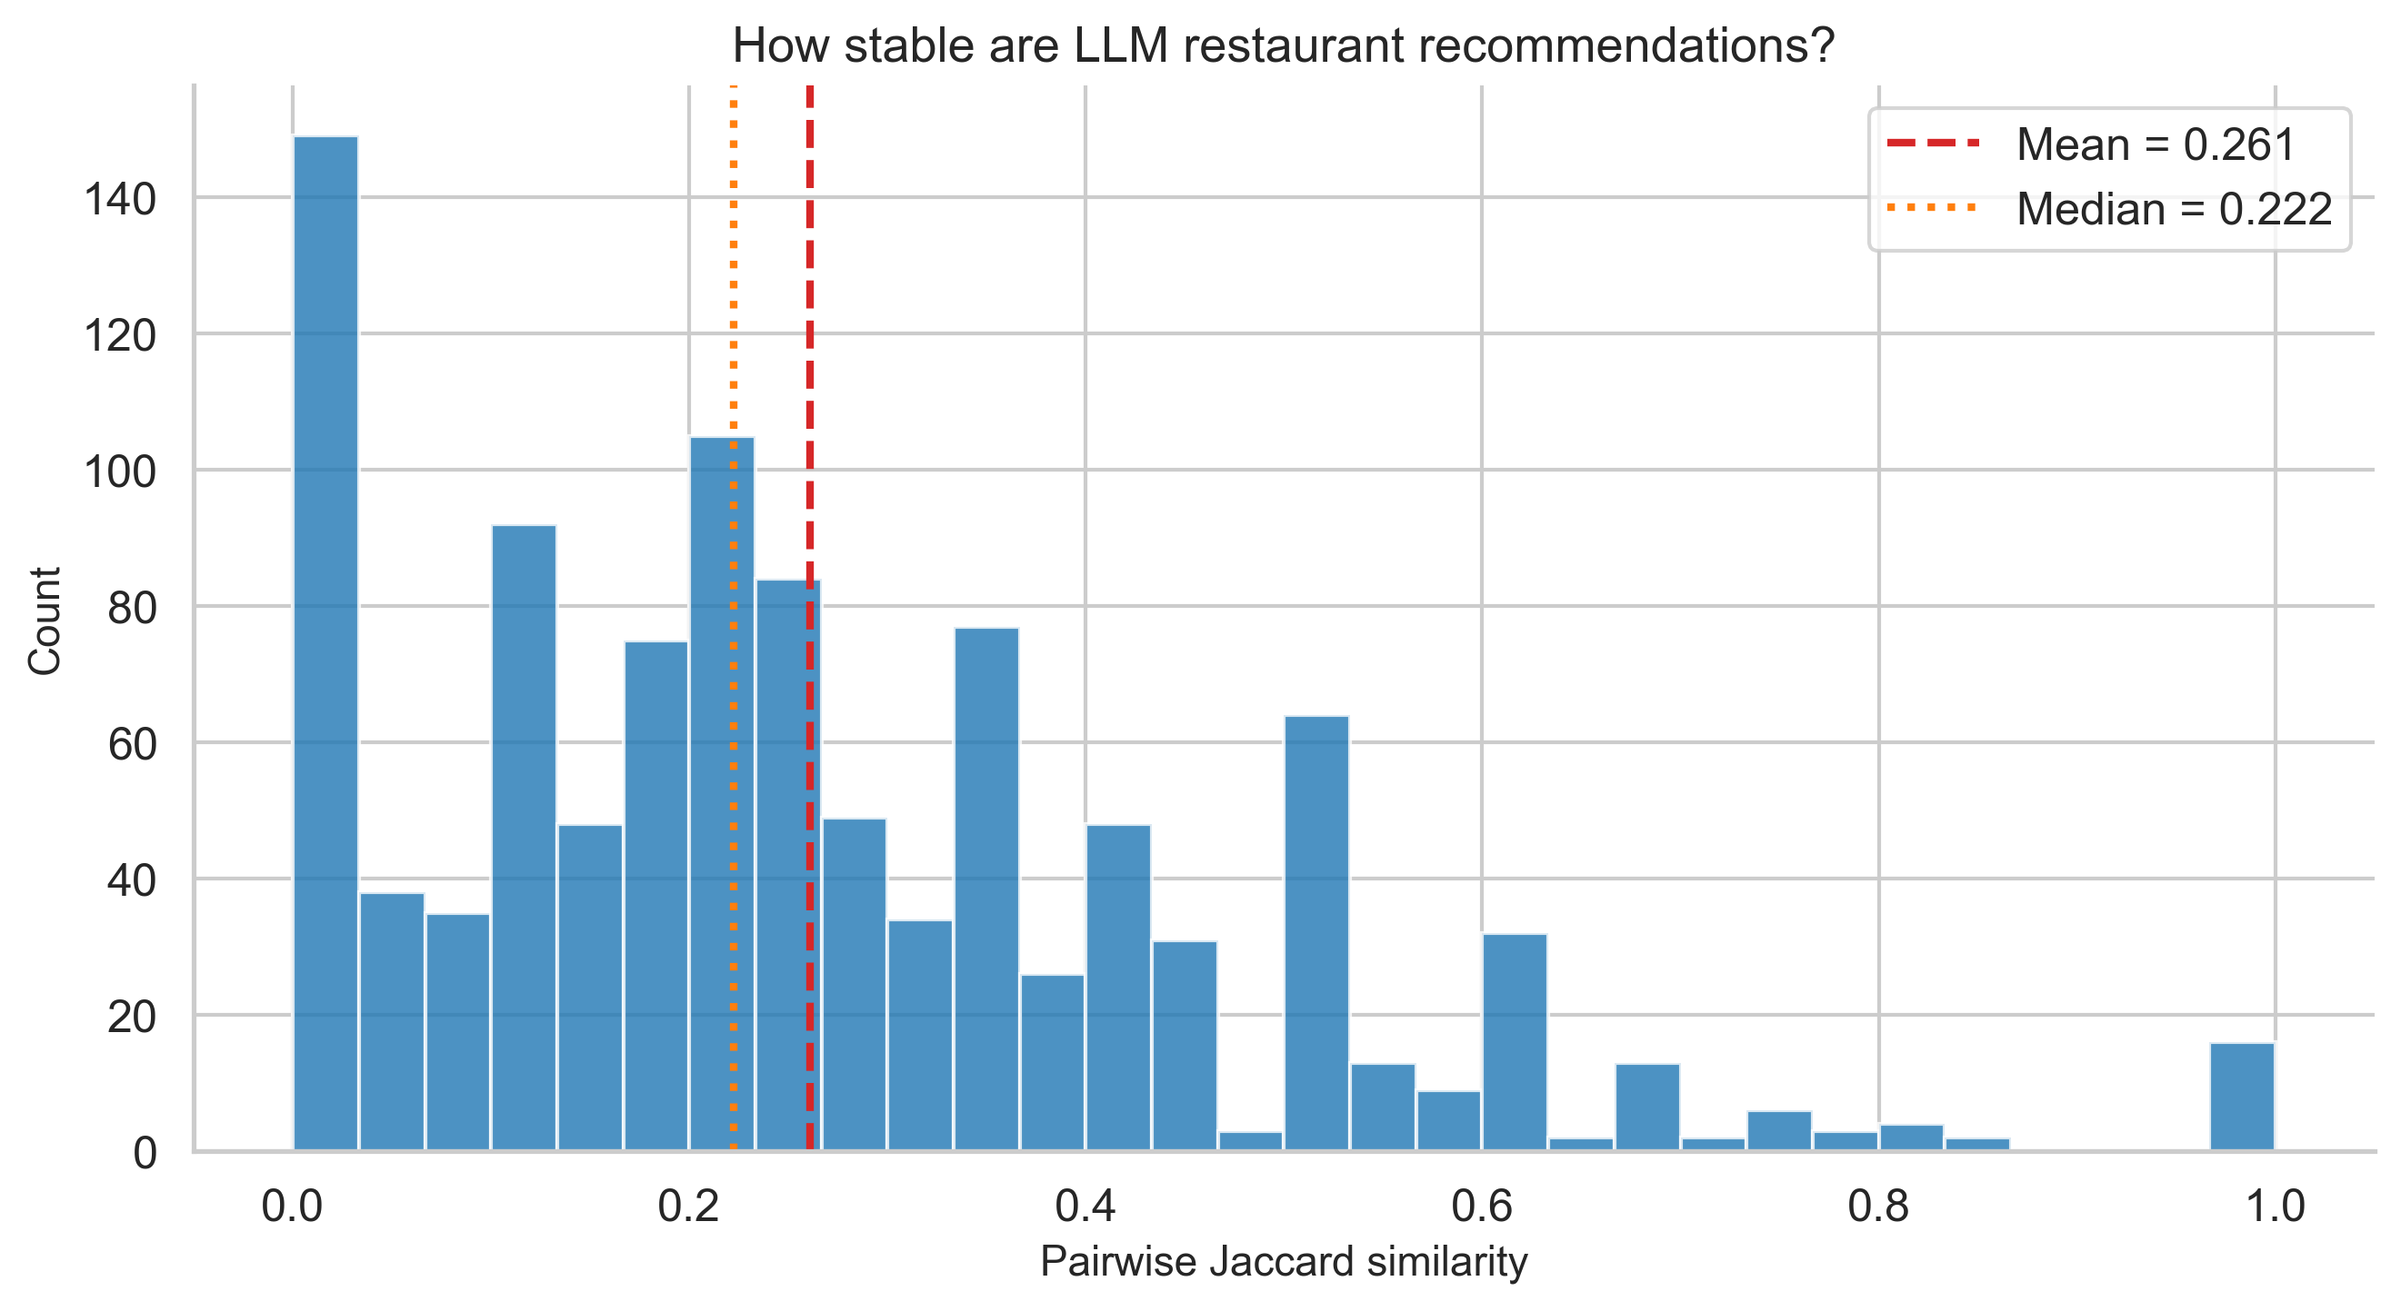
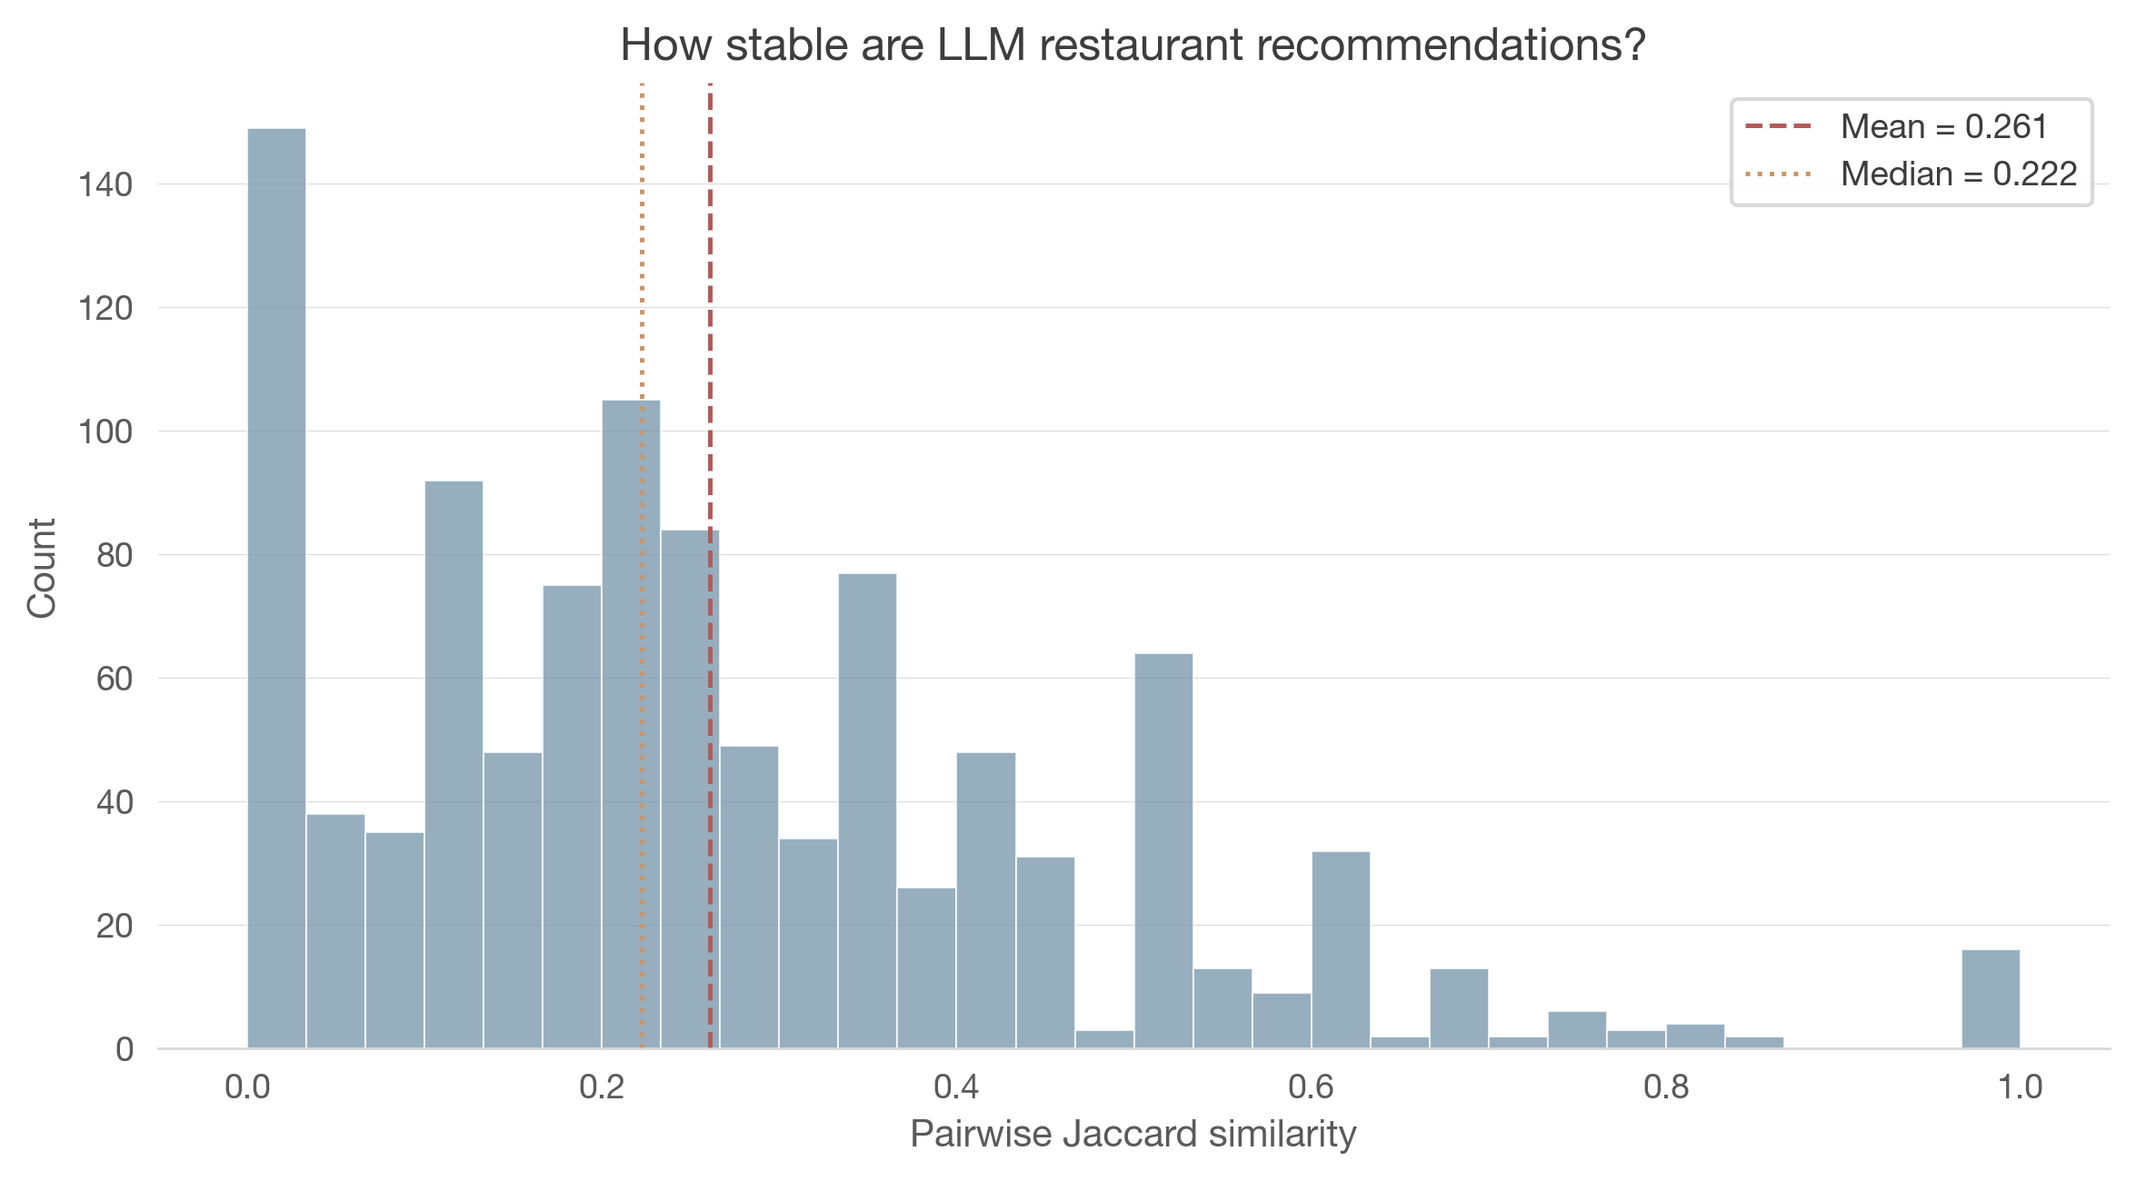
style: muted journal aesthetic for all charts
Desaturated palette (sage, amber, slate, mauve), lighter gridlines,
softer text, thinner strokes, more whitespace. Terminal-meets-journal.

diff --git a/scripts/export_charts.py b/scripts/export_charts.py
@@ -4,7 +4,7 @@
 Generates 6 charts to assets/charts/ at 300 DPI:
   1. model_coverage.png    — Distribution of restaurants by how many models mention them
   2. model_breadth.png     — Per-model unique restaurant count
-  3. zombie_status.png     — Business status of AI-recommended restaurants
+  3. zombie_status.png     — Top closed restaurants still recommended by AI
   4. jaccard_stability.png — Distribution of Jaccard similarities (recommendation stability)
   5. search_overlap.png    — Search ON vs OFF restaurant overlap
   6. reviews_vs_mentions.png — Google review count vs AI mention frequency
@@ -16,6 +16,7 @@ from pathlib import Path
 
 import matplotlib.pyplot as plt
 import matplotlib.ticker as mticker
+from matplotlib.patches import Patch
 import numpy as np
 import pandas as pd
 import seaborn as sns
@@ -28,11 +29,13 @@ OUT_DIR.mkdir(parents=True, exist_ok=True)
 
 DPI = 300
 
+# ── Muted palette ────────────────────────────────────────────────────────────
+# Desaturated, journal-friendly colors. Warm-cool balanced.
 MODEL_COLORS = {
-    "openai/gpt-4o": "#2ca02c",
-    "anthropic/claude-sonnet-4-20250514": "#ff7f0e",
-    "google/gemini-2.5-flash": "#1f77b4",
-    "perplexity/sonar": "#9467bd",
+    "openai/gpt-4o": "#6a9a78",                      # sage green
+    "anthropic/claude-sonnet-4-20250514": "#c4956a",  # warm amber
+    "google/gemini-2.5-flash": "#6b8ba4",             # steel blue
+    "perplexity/sonar": "#9b8bb4",                    # muted mauve
 }
 MODEL_SHORT = {
     "openai/gpt-4o": "GPT-4o",
@@ -47,27 +50,74 @@ MODEL_ORDER = [
     "perplexity/sonar",
 ]
 
+# Accent colors (muted)
+C_RED = "#b55a5a"       # muted rust
+C_ORANGE = "#c9956b"    # warm terracotta
+C_GREEN = "#7a9e7a"     # sage
+C_BLUE = "#7393a7"      # slate blue
+C_GRAY = "#8c8c8c"      # neutral gray
+C_LIGHT = "#d5d5d5"     # light gray for gridlines
+C_TEXT = "#3d3d3d"       # near-black for text
+C_ANNOT = "#5a5a5a"     # annotation gray
+
 
 def model_short(name: str) -> str:
     return MODEL_SHORT.get(name, name)
 
 
 def model_color(name: str) -> str:
-    return MODEL_COLORS.get(name, "#999999")
+    return MODEL_COLORS.get(name, C_GRAY)
 
 
 def setup_style():
-    sns.set_theme(style="whitegrid", font_scale=1.1)
-    plt.rcParams["figure.dpi"] = 120
-    plt.rcParams["axes.titlesize"] = 13
-    plt.rcParams["axes.labelsize"] = 11
+    """Muted, journal-style chart aesthetics."""
+    sns.set_theme(style="white", font_scale=1.0)
+    plt.rcParams.update({
+        "figure.facecolor": "white",
+        "axes.facecolor": "white",
+        "axes.edgecolor": C_LIGHT,
+        "axes.linewidth": 0.6,
+        "axes.titlesize": 12,
+        "axes.titleweight": "medium",
+        "axes.titlecolor": C_TEXT,
+        "axes.labelsize": 10,
+        "axes.labelcolor": C_ANNOT,
+        "xtick.color": C_ANNOT,
+        "ytick.color": C_ANNOT,
+        "xtick.labelsize": 9,
+        "ytick.labelsize": 9,
+        "xtick.major.width": 0.4,
+        "ytick.major.width": 0.4,
+        "xtick.major.size": 3,
+        "ytick.major.size": 3,
+        "grid.color": C_LIGHT,
+        "grid.linewidth": 0.4,
+        "grid.alpha": 0.7,
+        "legend.fontsize": 9,
+        "legend.framealpha": 0.8,
+        "legend.edgecolor": C_LIGHT,
+        "font.family": "sans-serif",
+        "font.sans-serif": ["Helvetica Neue", "Helvetica", "Arial",
+                            "DejaVu Sans", "sans-serif"],
+        "text.color": C_TEXT,
+    })
 
 
 def save(fig, name: str):
     path = OUT_DIR / name
-    fig.savefig(path, dpi=DPI, bbox_inches="tight", facecolor="white")
+    fig.savefig(path, dpi=DPI, bbox_inches="tight", facecolor="white",
+                edgecolor="none")
     plt.close(fig)
     print(f"  Saved {path}")
+
+
+def light_grid(ax, axis="y"):
+    """Add subtle horizontal gridlines only."""
+    if axis in ("y", "both"):
+        ax.yaxis.grid(True, linewidth=0.3, color=C_LIGHT, alpha=0.8)
+    if axis in ("x", "both"):
+        ax.xaxis.grid(True, linewidth=0.3, color=C_LIGHT, alpha=0.8)
+    ax.set_axisbelow(True)
 
 
 # ── Chart 1: Model coverage distribution ─────────────────────────────────────
@@ -80,23 +130,28 @@ def chart_model_coverage(conn):
         ORDER BY model_count
     """, conn)
 
-    fig, ax = plt.subplots(figsize=(8, 5))
-    colors = ["#d62728", "#ff7f0e", "#ffbb78", "#2ca02c"]
+    fig, ax = plt.subplots(figsize=(7, 4.5))
+
+    # Gradient from muted red (1 model) to muted green (4 models)
+    colors = ["#b55a5a", "#c9956b", "#a8b07a", "#7a9e7a"]
     bars = ax.bar(model_dist["model_count"], model_dist["restaurants"],
-                  color=colors, edgecolor="white", linewidth=0.5)
+                  color=colors, edgecolor="white", linewidth=0.8, width=0.7)
 
+    total = model_dist["restaurants"].sum()
     for bar, val in zip(bars, model_dist["restaurants"]):
-        pct = val / model_dist["restaurants"].sum() * 100
-        ax.text(bar.get_x() + bar.get_width() / 2, bar.get_height() + 20,
-                f"{val:,}\n({pct:.1f}%)", ha="center", va="bottom", fontsize=10)
+        pct = val / total * 100
+        ax.text(bar.get_x() + bar.get_width() / 2, bar.get_height() + 15,
+                f"{val:,}\n({pct:.0f}%)", ha="center", va="bottom",
+                fontsize=9, color=C_ANNOT)
 
-    ax.set_xlabel("Number of models that mention the restaurant")
-    ax.set_ylabel("Number of restaurants")
+    ax.set_xlabel("Number of models mentioning the restaurant")
+    ax.set_ylabel("Restaurants")
     ax.set_title("How many models know each restaurant?")
     ax.set_xticks([1, 2, 3, 4])
-    ax.set_xticklabels(["1 model\n(long tail)", "2 models", "3 models",
-                        "4 models\n(consensus)"])
-    sns.despine()
+    ax.set_xticklabels(["1 model\n(long tail)", "2 models",
+                        "3 models", "4 models\n(consensus)"])
+    light_grid(ax, "y")
+    sns.despine(left=True)
     plt.tight_layout()
     save(fig, "model_coverage.png")
 
@@ -113,27 +168,28 @@ def chart_model_breadth(conn):
         ORDER BY unique_restaurants DESC
     """, conn)
 
-    fig, ax = plt.subplots(figsize=(8, 5))
+    fig, ax = plt.subplots(figsize=(7, 3.5))
     bar_colors = [model_color(m) for m in per_model["model_name"]]
     bars = ax.barh(
         [model_short(m) for m in per_model["model_name"]],
         per_model["unique_restaurants"],
-        color=bar_colors, edgecolor="white",
+        color=bar_colors, edgecolor="white", linewidth=0.8, height=0.6,
     )
     for bar, val in zip(bars, per_model["unique_restaurants"]):
-        ax.text(bar.get_width() + 15, bar.get_y() + bar.get_height() / 2,
-                f"{val:,}", va="center", fontsize=11, fontweight="bold")
+        ax.text(bar.get_width() + 12, bar.get_y() + bar.get_height() / 2,
+                f"{val:,}", va="center", fontsize=9.5, color=C_ANNOT)
 
-    ax.set_xlabel("Unique restaurants mentioned (main sweep)")
+    ax.set_xlabel("Unique restaurants mentioned")
     ax.set_title("Restaurant knowledge breadth by model")
-    ax.set_xlim(0, per_model["unique_restaurants"].max() * 1.15)
+    ax.set_xlim(0, per_model["unique_restaurants"].max() * 1.12)
     ax.invert_yaxis()
-    sns.despine()
+    light_grid(ax, "x")
+    sns.despine(bottom=True)
     plt.tight_layout()
     save(fig, "model_breadth.png")
 
 
-# ── Chart 3: Zombie restaurants — top closed by mention count ─────────────────
+# ── Chart 3: Zombie restaurants — top closed by mention count ────────────────
 def chart_zombie_status(conn):
     closed = pd.read_sql_query("""
         SELECT cr.canonical_name, cr.total_mentions, cr.model_count,
@@ -149,45 +205,43 @@ def chart_zombie_status(conn):
         print("  SKIP zombie_status — no closed restaurants found")
         return
 
-    # Show top 15 for readability
     top = closed.head(15).copy()
-    top = top.iloc[::-1]  # reverse for horizontal bar (top at top)
+    top = top.iloc[::-1]
 
     status_colors = {
-        "CLOSED_PERMANENTLY": "#d62728",
-        "CLOSED_TEMPORARILY": "#ff7f0e",
+        "CLOSED_PERMANENTLY": C_RED,
+        "CLOSED_TEMPORARILY": C_ORANGE,
     }
 
-    fig, ax = plt.subplots(figsize=(10, 7))
+    fig, ax = plt.subplots(figsize=(9, 6.5))
     colors = [status_colors[s] for s in top["business_status"]]
 
     bars = ax.barh(range(len(top)), top["total_mentions"], color=colors,
-                   edgecolor="white", linewidth=0.5)
+                   edgecolor="white", linewidth=0.8, height=0.7)
 
-    # Restaurant names with model count annotation
     labels = [f"{name}  ({mc}/4 models)"
               for name, mc in zip(top["canonical_name"], top["model_count"])]
     ax.set_yticks(range(len(top)))
-    ax.set_yticklabels(labels, fontsize=9)
+    ax.set_yticklabels(labels, fontsize=8.5)
 
     for bar, val in zip(bars, top["total_mentions"]):
-        ax.text(bar.get_width() + 0.5, bar.get_y() + bar.get_height() / 2,
-                str(val), va="center", fontsize=9, fontweight="bold")
+        ax.text(bar.get_width() + 0.4, bar.get_y() + bar.get_height() / 2,
+                str(val), va="center", fontsize=8.5, color=C_ANNOT)
 
-    # Legend
-    from matplotlib.patches import Patch
     legend_elements = [
-        Patch(facecolor="#d62728", label="Permanently closed"),
-        Patch(facecolor="#ff7f0e", label="Temporarily closed"),
+        Patch(facecolor=C_RED, edgecolor="white", label="Permanently closed"),
+        Patch(facecolor=C_ORANGE, edgecolor="white", label="Temporarily closed"),
     ]
-    ax.legend(handles=legend_elements, loc="lower right", framealpha=0.9)
+    ax.legend(handles=legend_elements, loc="lower right", framealpha=0.9,
+              fontsize=8.5)
 
     ax.set_xlabel("Total AI mentions")
-    ax.set_title(f"Zombie restaurants: closed but still recommended\n"
-                 f"({len(closed)} closed out of "
-                 f"{closed['total_mentions'].sum():,} total mentions)")
-    ax.set_xlim(0, top["total_mentions"].max() * 1.15)
-    sns.despine()
+    ax.set_title(f"Closed restaurants still recommended by AI\n"
+                 f"{len(closed)} zombie restaurants, "
+                 f"{closed['total_mentions'].sum():,} total mentions")
+    ax.set_xlim(0, top["total_mentions"].max() * 1.12)
+    light_grid(ax, "x")
+    sns.despine(bottom=True)
     plt.tight_layout()
     save(fig, "zombie_status.png")
 
@@ -208,7 +262,8 @@ def chart_jaccard_stability(conn):
     """, conn)
 
     jaccard_records = []
-    cells = stability_mentions.groupby(["prompt_id", "model_name", "search_enabled"])
+    cells = stability_mentions.groupby(["prompt_id", "model_name",
+                                        "search_enabled"])
 
     for (pid, model, search), group in cells:
         runs = group.groupby("run_number")["canonical_id"].apply(set).to_dict()
@@ -221,18 +276,22 @@ def chart_jaccard_stability(conn):
             jaccard_records.append({"jaccard": jac})
 
     jac_df = pd.DataFrame(jaccard_records)
+    mean_j = jac_df["jaccard"].mean()
+    median_j = jac_df["jaccard"].median()
 
-    fig, ax = plt.subplots(figsize=(9, 5))
-    ax.hist(jac_df["jaccard"], bins=30, color="#1f77b4", edgecolor="white", alpha=0.8)
-    ax.axvline(jac_df["jaccard"].mean(), color="#d62728", linestyle="--", linewidth=2,
-               label=f'Mean = {jac_df["jaccard"].mean():.3f}')
-    ax.axvline(jac_df["jaccard"].median(), color="#ff7f0e", linestyle=":", linewidth=2,
-               label=f'Median = {jac_df["jaccard"].median():.3f}')
+    fig, ax = plt.subplots(figsize=(8, 4.5))
+    ax.hist(jac_df["jaccard"], bins=30, color=C_BLUE, edgecolor="white",
+            linewidth=0.5, alpha=0.75)
+    ax.axvline(mean_j, color=C_RED, linestyle="--", linewidth=1.2,
+               label=f"Mean = {mean_j:.3f}")
+    ax.axvline(median_j, color=C_ORANGE, linestyle=":", linewidth=1.2,
+               label=f"Median = {median_j:.3f}")
     ax.set_xlabel("Pairwise Jaccard similarity")
     ax.set_ylabel("Count")
     ax.set_title("How stable are LLM restaurant recommendations?")
-    ax.legend()
-    sns.despine()
+    ax.legend(framealpha=0.9)
+    light_grid(ax, "y")
+    sns.despine(left=True)
     plt.tight_layout()
     save(fig, "jaccard_stability.png")
 
@@ -260,30 +319,35 @@ def chart_search_overlap(conn):
             (SELECT COUNT(*) FROM on_set
              WHERE canonical_id IN (SELECT canonical_id FROM off_set)) AS both,
             (SELECT COUNT(*) FROM on_set
-             WHERE canonical_id NOT IN (SELECT canonical_id FROM off_set)) AS search_on_only,
+             WHERE canonical_id NOT IN (SELECT canonical_id FROM off_set))
+                AS search_on_only,
             (SELECT COUNT(*) FROM off_set
-             WHERE canonical_id NOT IN (SELECT canonical_id FROM on_set)) AS search_off_only
+             WHERE canonical_id NOT IN (SELECT canonical_id FROM on_set))
+                AS search_off_only
     """, conn)
 
     both = search_overlap["both"].values[0]
     on_only = search_overlap["search_on_only"].values[0]
     off_only = search_overlap["search_off_only"].values[0]
+    total = both + on_only + off_only
 
-    fig, ax = plt.subplots(figsize=(8, 4))
+    fig, ax = plt.subplots(figsize=(7, 3.5))
     categories = ["Both modes", "Search ON only", "Search OFF only"]
     values = [both, on_only, off_only]
-    colors_v = ["#2ca02c", "#1f77b4", "#ff7f0e"]
-    bars = ax.barh(categories, values, color=colors_v, edgecolor="white")
+    colors_v = [C_GREEN, C_BLUE, C_ORANGE]
+    bars = ax.barh(categories, values, color=colors_v, edgecolor="white",
+                   linewidth=0.8, height=0.6)
     for bar, val in zip(bars, values):
-        total = sum(values)
         pct = val / total * 100
-        ax.text(bar.get_width() + 10, bar.get_y() + bar.get_height() / 2,
-                f"{val:,} ({pct:.0f}%)", va="center", fontsize=11, fontweight="bold")
+        ax.text(bar.get_width() + 8, bar.get_y() + bar.get_height() / 2,
+                f"{val:,} ({pct:.0f}%)", va="center", fontsize=9,
+                color=C_ANNOT)
 
-    ax.set_xlabel("Number of unique restaurants")
-    ax.set_title("Restaurant overlap: Search ON vs OFF")
-    ax.set_xlim(0, max(values) * 1.2)
-    sns.despine()
+    ax.set_xlabel("Unique restaurants")
+    ax.set_title("Restaurant overlap: search ON vs OFF")
+    ax.set_xlim(0, max(values) * 1.18)
+    light_grid(ax, "x")
+    sns.despine(bottom=True)
     plt.tight_layout()
     save(fig, "search_overlap.png")
 
@@ -304,32 +368,38 @@ def chart_reviews_vs_mentions(conn):
 
     ground_truth["log_reviews"] = np.log10(ground_truth["reviews"])
 
-    fig, ax = plt.subplots(figsize=(9, 6))
+    fig, ax = plt.subplots(figsize=(8, 5.5))
     ax.scatter(ground_truth["log_reviews"], ground_truth["total_mentions"],
-               alpha=0.4, s=20, c="#9467bd", edgecolors="none")
+               alpha=0.35, s=16, c=C_BLUE, edgecolors="none")
 
-    z = np.polyfit(ground_truth["log_reviews"], ground_truth["total_mentions"], 1)
+    # Trend line
+    z = np.polyfit(ground_truth["log_reviews"],
+                   ground_truth["total_mentions"], 1)
     p = np.poly1d(z)
     x_line = np.linspace(ground_truth["log_reviews"].min(),
                          ground_truth["log_reviews"].max(), 100)
-    ax.plot(x_line, p(x_line), "--", color="#d62728", linewidth=2)
+    ax.plot(x_line, p(x_line), "--", color=C_RED, linewidth=1.2, alpha=0.8)
 
+    # Correlation annotation
     r, pval = stats.spearmanr(ground_truth["log_reviews"],
                               ground_truth["total_mentions"])
-    ax.text(0.05, 0.95, f"Spearman r = {r:.3f}\np = {pval:.2e}",
-            transform=ax.transAxes, fontsize=10, va="top",
-            bbox=dict(boxstyle="round", facecolor="wheat", alpha=0.8))
+    ax.text(0.04, 0.94, f"Spearman r = {r:.3f}\np = {pval:.1e}",
+            transform=ax.transAxes, fontsize=9, va="top", color=C_ANNOT,
+            bbox=dict(boxstyle="round,pad=0.4", facecolor="#f5f0eb",
+                      edgecolor=C_LIGHT, linewidth=0.5, alpha=0.9))
 
+    # Annotate top 5
     top_mentions = ground_truth.nlargest(5, "total_mentions")
     for _, row in top_mentions.iterrows():
         ax.annotate(row["canonical_name"],
                     (row["log_reviews"], row["total_mentions"]),
-                    fontsize=7, ha="left", va="bottom",
-                    xytext=(5, 5), textcoords="offset points")
+                    fontsize=7, color=C_ANNOT, ha="left", va="bottom",
+                    xytext=(5, 4), textcoords="offset points")
 
     ax.set_xlabel("Google review count (log10 scale)")
     ax.set_ylabel("Total AI mentions")
     ax.set_title("Review volume predicts AI mentions more than rating does")
+    light_grid(ax, "both")
     sns.despine()
     plt.tight_layout()
     save(fig, "reviews_vs_mentions.png")
